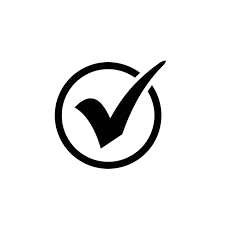
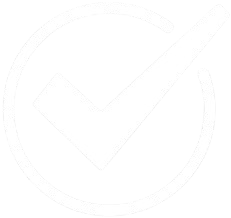
adição de icone de presença

Changed region(s): [[0.2178, 0.2477, 0.7467, 0.7706]]

diff --git a/style.css b/style.css
@@ -1,32 +1,49 @@
 * {
-    border: 0px;
-    padding: 0px;
-    margin: 0px;
-  }
+  border: 0px;
+  padding: 0px;
+  margin: 0px;
 
-  .fundo {
-    width: 100%;
-    position: absolute; /* Posiciona a imagem de fundo absolutamente */
-    top: 0;
-    left: 0; 
-  }
+}
 
+.fundo {
+  width: 100%;
+  position: absolute;
+  /* Posiciona a imagem de fundo absolutamente */
+  top: 0;
+  left: 0;
 
-  .icones {
-    margin-top: 152%;
-    margin-left: 30%;
-  }
+}
 
 
-  .endereco {
-    width:13%;
-    position: relative; /* Posiciona a imagem do endereço relativamente */
-    z-index: 1; /* Define o nível de empilhamento da imagem do endereço */
-  }
+.icones {
+  margin-top: 152%;
+  margin-left: 30%;
 
-  /* .presenca {
+}
+
+
+.endereco {
+
+  width: 13%;
+  position: relative;
+  /* Posiciona a imagem do endereço relativamente */
+  z-index: 1;
+
+
+  /* Define o nível de empilhamento da imagem do endereço */
+
+}
+
+
+.presenca {
+  width: 13%;
+  margin-left: 7%;
+  position: relative;
+  z-index: 1;
+}
+
+/* .presenca {
     width: 100px;
     position: relative;
     z-index: 2; 
   } */
-

diff --git a/index.html b/index.html
@@ -16,6 +16,9 @@
             <a target="_blank" href="https://maps.app.goo.gl/qQ7n9ftSs54xxGvz5?g_st=iw"> <img class="endereco"
                     src="./img/endereco.png" alt=""></a>
 
+            <a target="_blank" href="https://www.listapresenca.com.br/?d=MTI2OTdfMTUwMjE="> <img class="presenca"
+                    src="./img/presenca.png" alt=""></a>
+
             <!-- <img class="presenca" src="./img/presenca.png" alt=""> -->
         </div>
 
